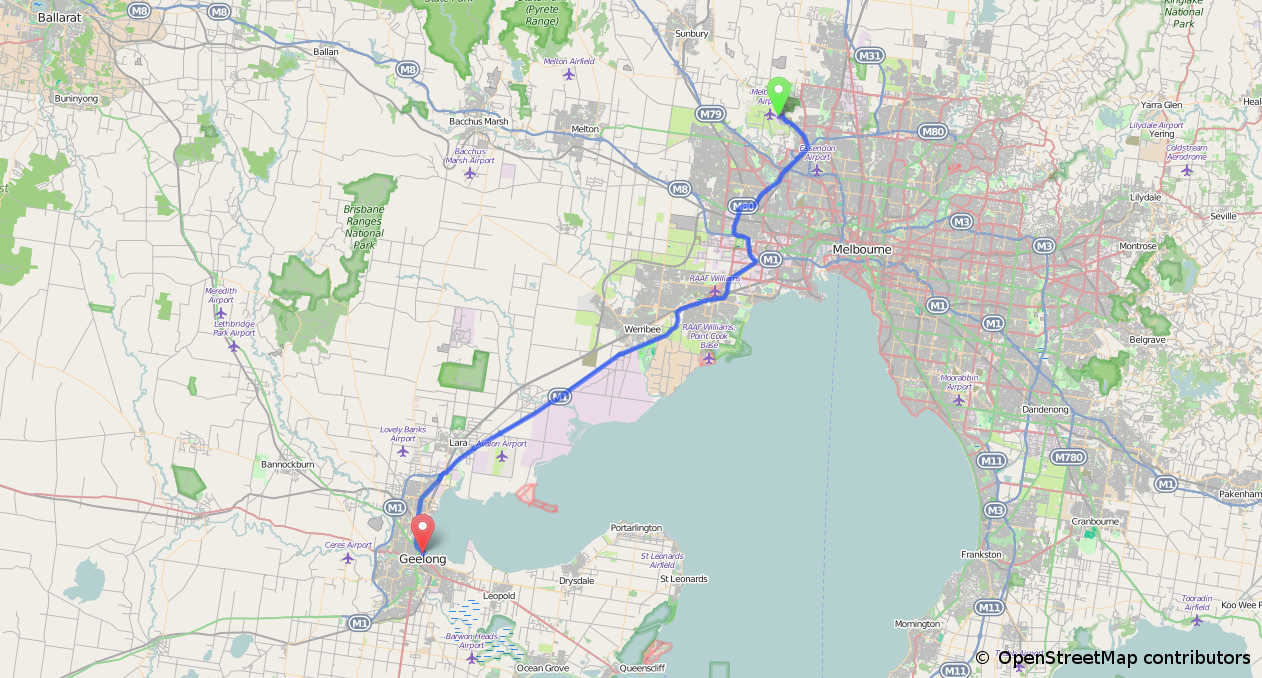
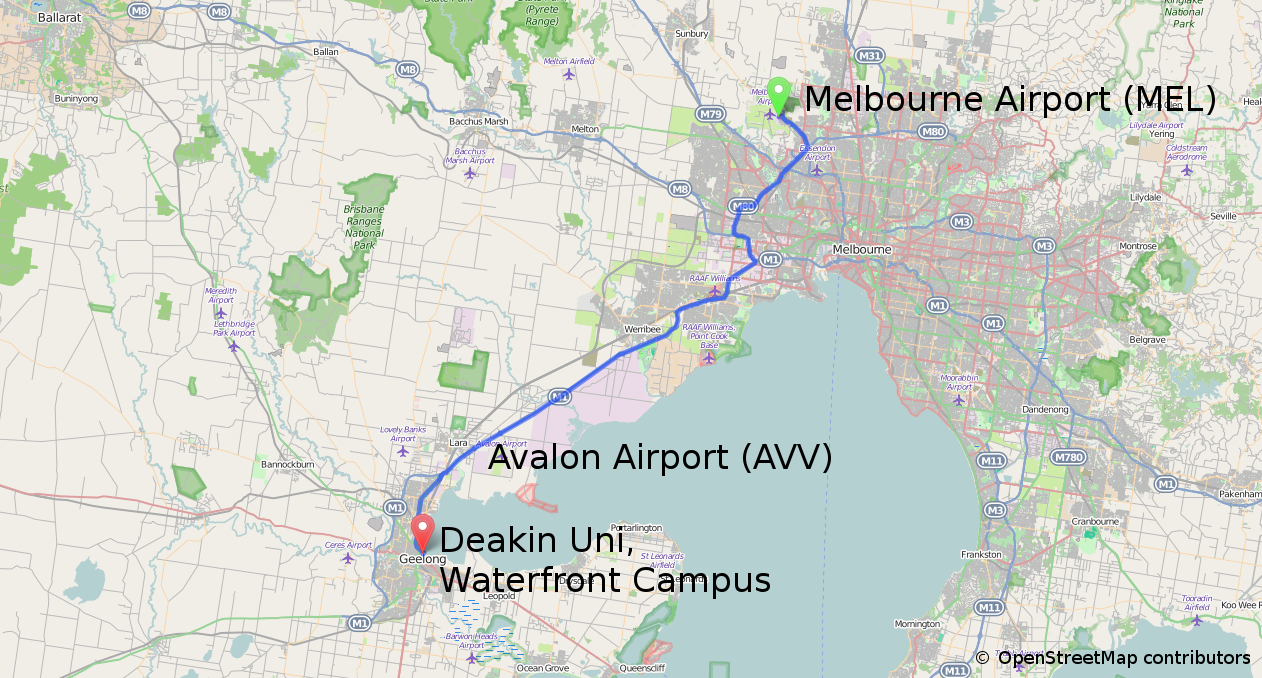
Added larger text to the images and added the drop shadow back in for the benefit of Firefox (doesn't support webkit text stroke)

Changed region(s): [[0.3399, 0.7743, 0.6181, 0.8982], [0.6181, 0.1239, 0.958, 0.1858], [0.3708, 0.6504, 0.649, 0.7124]]

diff --git a/css/impress-lca2016.css b/css/impress-lca2016.css
@@ -78,6 +78,7 @@ p {
 	text-align: center;
 	color: #00dbe2;
 	-webkit-text-stroke: 4px #00002d;
+	text-shadow: 4px 4px 0 #00002d, -1px -1px 0 #00002d, -1px 1px 0 #00002d, 1px -1px 0 #00002d, 1px 1px 0 #00002d;
 }
 
 h1 {
@@ -85,15 +86,14 @@ h1 {
 	color: #00dbe2;
 	line-height: 105%;
 	-webkit-text-stroke: 4px #00002d;
+	text-shadow: 4px 4px 0 #00002d, -1px -1px 0 #00002d, -1px 1px 0 #00002d, 1px -1px 0 #00002d, 1px 1px 0 #00002d;
 }
 
 h2 {
 	font-size: 120%;
 	text-align: center;
-	/*color: #00dbe2;*/
 	color: #00002d;
 	line-height: 110%;
-	/*-webkit-text-stroke: 2px #00002d;*/
 }
 
 .lca2016-list li {
